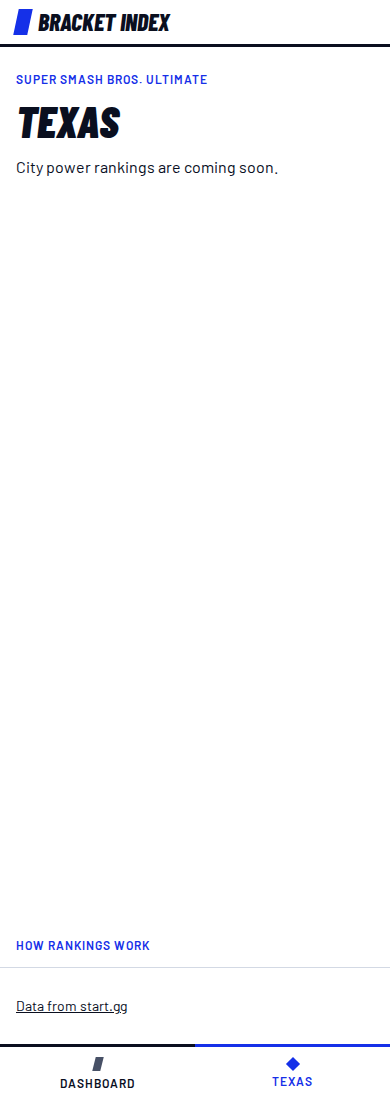
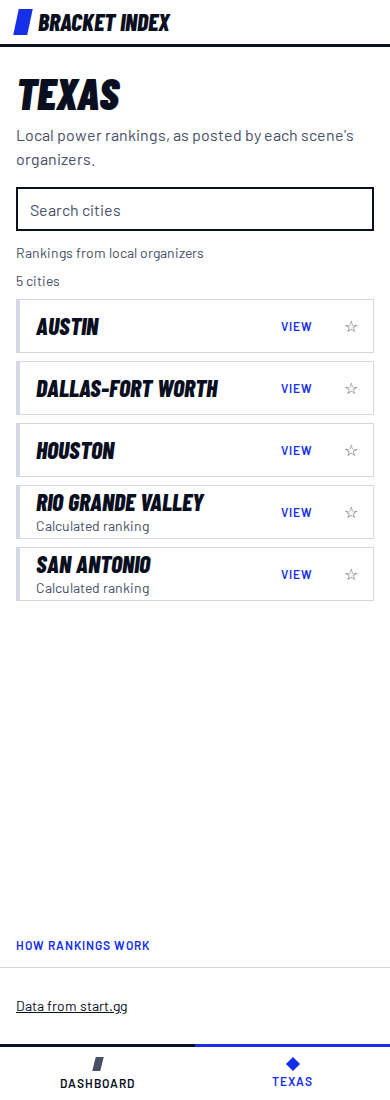
test(e2e): Texas tests and screenshots follow the real Texas page after the two-tab merge
Nav and page specs assert the real page copy and its descriptive title
instead of #27's placeholder. Screenshots regenerated with the tab bar.

Claude-Session: https://claude.ai/code/session_01EmiPNYLaxRfYJT2qzBUjng

diff --git a/e2e/tests/nav.spec.ts b/e2e/tests/nav.spec.ts
@@ -122,10 +122,12 @@ test.describe("two-tab navigation", () => {
     }
   });
 
-  test("texas placeholder has the right copy and no serious axe issues", async ({ page }) => {
+  test("texas page has the right copy and no serious axe issues", async ({ page }) => {
     await page.goto("/texas");
-    await expect(page).toHaveTitle("Texas | Bracket Index");
-    await expect(page.getByText("City power rankings are coming soon.")).toBeVisible();
+    await expect(page).toHaveTitle("Texas local power rankings | Bracket Index");
+    await expect(
+      page.getByText("Local power rankings, as posted by each scene's organizers."),
+    ).toBeVisible();
     await expect(page.getByRole("link", { name: /Data from start\.gg/ })).toBeVisible();
     for (const viewport of [PHONE, DESKTOP]) {
       await page.setViewportSize(viewport);

diff --git a/e2e/tests/pages.spec.ts b/e2e/tests/pages.spec.ts
@@ -8,7 +8,7 @@ const routes = [
     title: "Dashboard | Smash Ultimate Rankings | Bracket Index",
     heading: "Dashboard",
   },
-  { path: "/texas", title: "Texas | Bracket Index", heading: "Texas" },
+  { path: "/texas", title: "Texas local power rankings | Bracket Index", heading: "Texas" },
   { path: "/style-guide", title: "Style guide | Bracket Index", heading: "Style guide" },
 ] as const;
 
